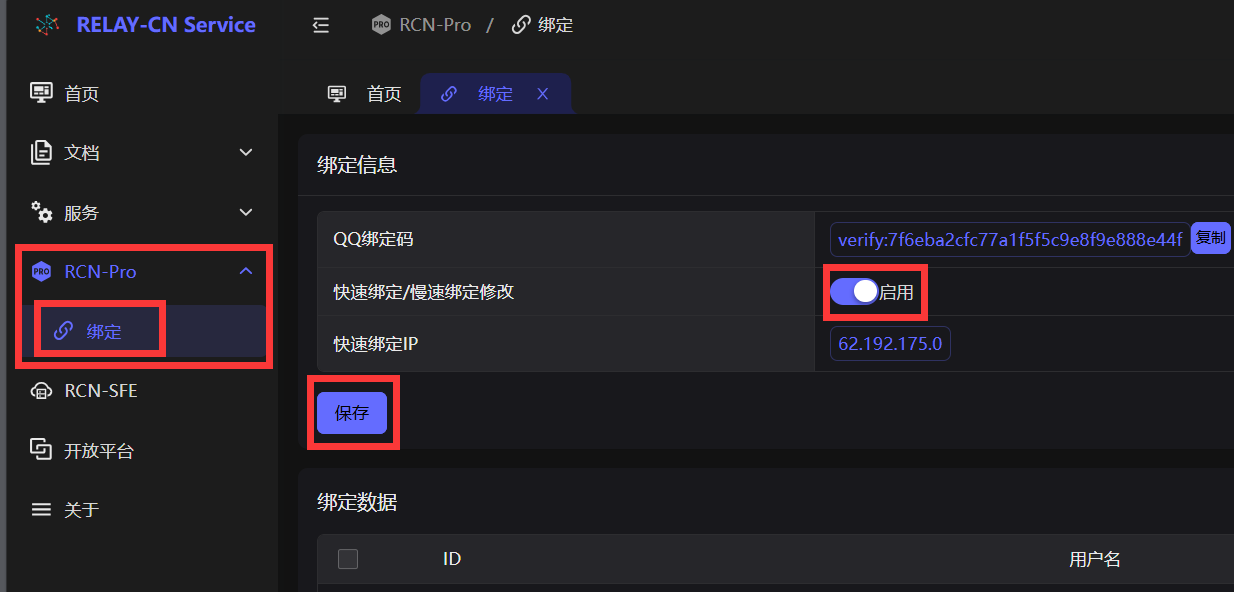
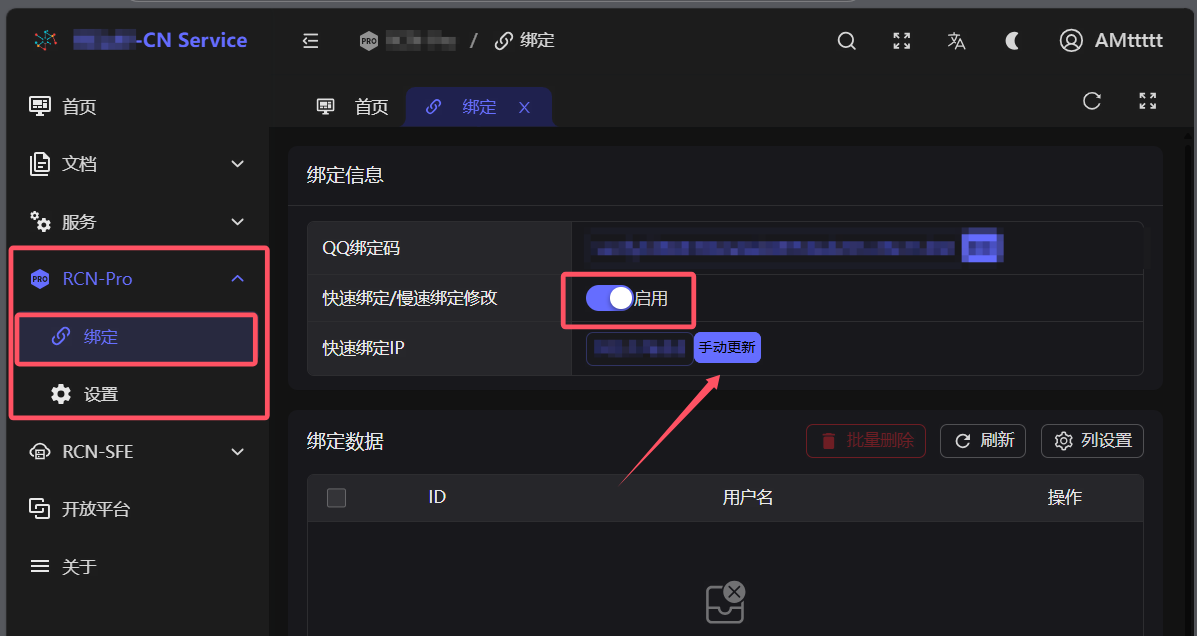
部分网站更新

diff --git a/use.html b/use.html
@@ -10,7 +10,7 @@
     1.在左侧菜单选择<b style="color:chocolate;">RCN-Pro->绑定</b>，
     确定“快速绑定/慢速绑定修改”为<b style="color:chocolate;">启用</b><br>
     <i style="color: red;">（默认就是启用状态）</i><br>
-    <b style="color:chocolate;">点击保存</b>  
+    以防万一，手动更新一下IP
 </p>
 <div class="img-container">
     <img src="img/use-1.png" alt="使用说明图片">
@@ -40,7 +40,7 @@
     1.在左侧菜单选择<b style="color:chocolate;">RCN-Pro->绑定</b>，
     确定“快速绑定/慢速绑定修改”为<b style="color:chocolate;">禁用</b><br>
     并复制下方<b style="color:chocolate;">慢速绑定码</b><br>
-    <b style="color:chocolate;">点击保存</b>  
+    <i style="color:red;">注意不要向他人暴露您的慢速绑定码</i>  
 </p>
 <div class="img-container">
     <img src="img/use-5.png" alt="图片加载失败">

diff --git a/buying.html b/buying.html
@@ -75,7 +75,7 @@
 </div>
 
 <p>
-    8.购买成功后可在<b style="color:chocolate;">服务->服务一览</b>
+    8.购买成功后可在<b style="color:chocolate;">RCN-Pro -> 设置</b>
     中查看到期时间
 </p>
 <div class="img-container">
